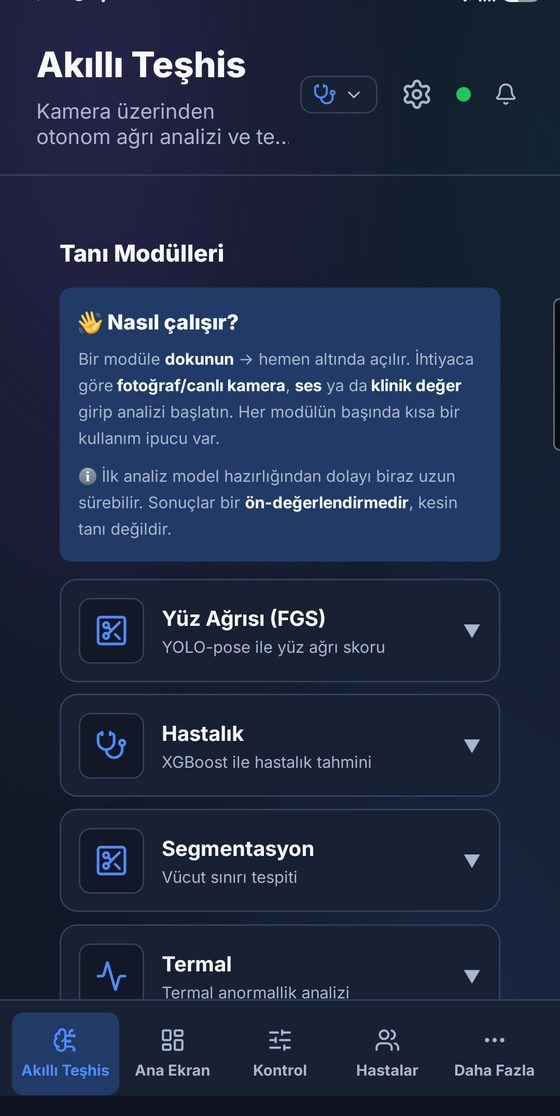
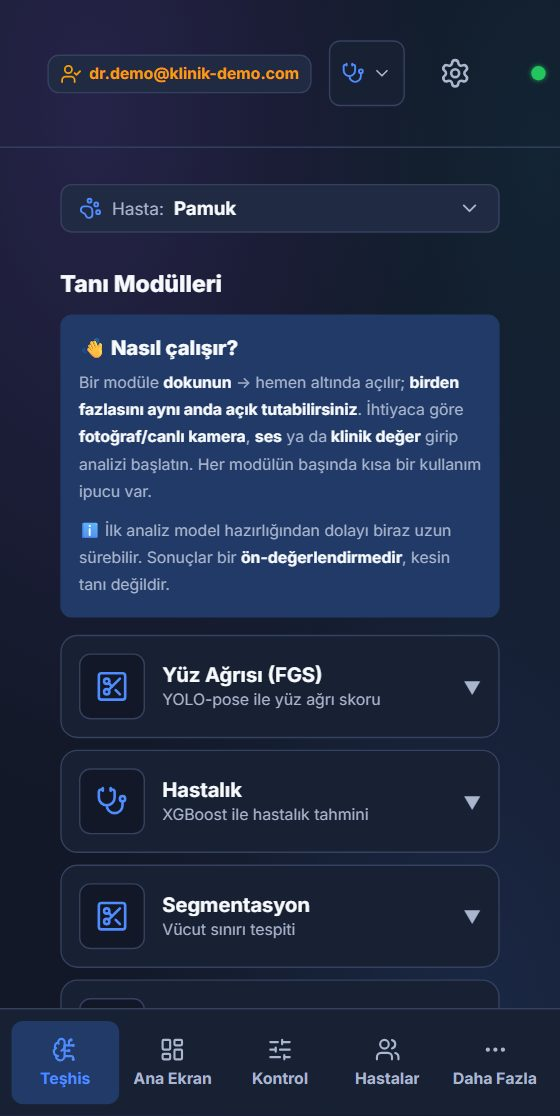
docs(site): YLI Y174 sitenin 8 Türkçe telefon ekran görüntüsü kum havuzunda DEMO veriyle yeniden çekildi (S-YH.4)
Sahip kararı Y174: apps/web/public/screenshots/*.jpg sahibin GERÇEK e-postasını ve 08-08 öncesi "Tedavi Kontrol" terimini gösteriyordu.
Aynı 8 çerçeve (YH B7 İngilizce setiyle aynı akış: profil · evcil hayvan teşhis · tanı modülleri · AI Pro · manuel kontrol · ana ekran ·
hastalar · AI geçmişi) yalıtılmış kum havuzunda (yli arayüz + backend, SIM, kafes, rastgele 127.0.0.1, başsız Edge geçici profil, tr-TR)
Türkçe DEMO veriyle (dr.demo@klinik-demo.com · Pamuk / Karabaş / Minnoş / Tarçın) çekildi: bildirim paneli / yerel yol / "Tedavi" YOK
(metin taraması + gözle bakıldı); Y173 sonrası arayüz ("AKTİF FREKANS", "ACİL DURDUR"). 560 × 1116 JPEG, q 82, 4:2:0 (mevcutlarla aynı;
boyutlar 39–71 KB). Kapı tests/test_YLI_Y174_tr_ekran_gorselleri_demo.py: eski 8 görselin SHA-256'sı geri gelmez.

diff --git a/tests/test_YLI_Y174_tr_ekran_gorselleri_demo.py b/tests/test_YLI_Y174_tr_ekran_gorselleri_demo.py
@@ -1,0 +1,45 @@
+# -*- coding: utf-8 -*-
+"""Y174 (S-YH.4) — sitenin 8 Türkçe telefon ekran görüntüsü kum havuzunda DEMO veriyle yeniden çekildi (YLI, 2026-10-22).
+
+ÖLÇÜLEN DURUM (YH): `apps/web/public/screenshots/*.jpg` sahibin GERÇEK e-postasını ve 08-08 öncesi "Tedavi Kontrol" terimini gösteriyordu.
+YLI: aynı 8 çerçeve (YH B7 İngilizce setiyle aynı akış) yalıtılmış kum havuzunda (SIM, kafes, rastgele 127.0.0.1, başsız Edge geçici profil)
+Türkçe DEMO veriyle (dr.demo@klinik-demo.com · Pamuk / Karabaş / Minnoş / Tarçın) çekildi; 560 × 1116 JPEG, aynı sıkıştırma (q 82, 4:2:0).
+
+KAPI: eski 8 görselin SHA-256'sı bir daha GELMEZ (gerçek e-posta / eski terim taşıyan dosyalar geri yüklenmesin — ör. eski bir daldan
+birleştirme ya da toplu geri alma). Biçim denetimi `test_YH_B7_site_ekran_gorselleri.py`'de.
+"""
+
+from __future__ import annotations
+
+import hashlib
+from pathlib import Path
+
+KOK = Path(__file__).resolve().parent.parent
+TR = KOK / "apps" / "web" / "public" / "screenshots"
+
+#: Y174 öncesi (YH B7'den önceki) Türkçe set — gerçek e-posta + "Tedavi Kontrol". Değerler `957ba225` git nesnelerinden ölçüldü.
+YASAK = {
[8 lines of base64/hex data omitted]
+}
+
+
+def test_KRITIK_Y174_eski_gercek_veri_gorselleri_GERI_GELMEZ():
+    dosyalar = sorted(TR.rglob("*.jpg"))
+    assert len(dosyalar) >= 16, f"ekran görseli sayısı beklenmedik: {len(dosyalar)}"  # 8 TR + 8 EN
+    geri = [
+        f"{p.relative_to(KOK).as_posix()} (= eski {YASAK[h]})"
+        for p in dosyalar
+        if (h := hashlib.sha256(p.read_bytes()).hexdigest()) in YASAK
+    ]
+    assert not geri, "Y174 öncesi gerçek e-posta / 'Tedavi' terimli ekran görüntüsü geri geldi:\n" + "\n".join(geri)
+
+
+def test_KARSIT_Y174_yasak_liste_8_ayri_dosya():
+    assert len(YASAK) == 8 and len(set(YASAK.values())) == 8
